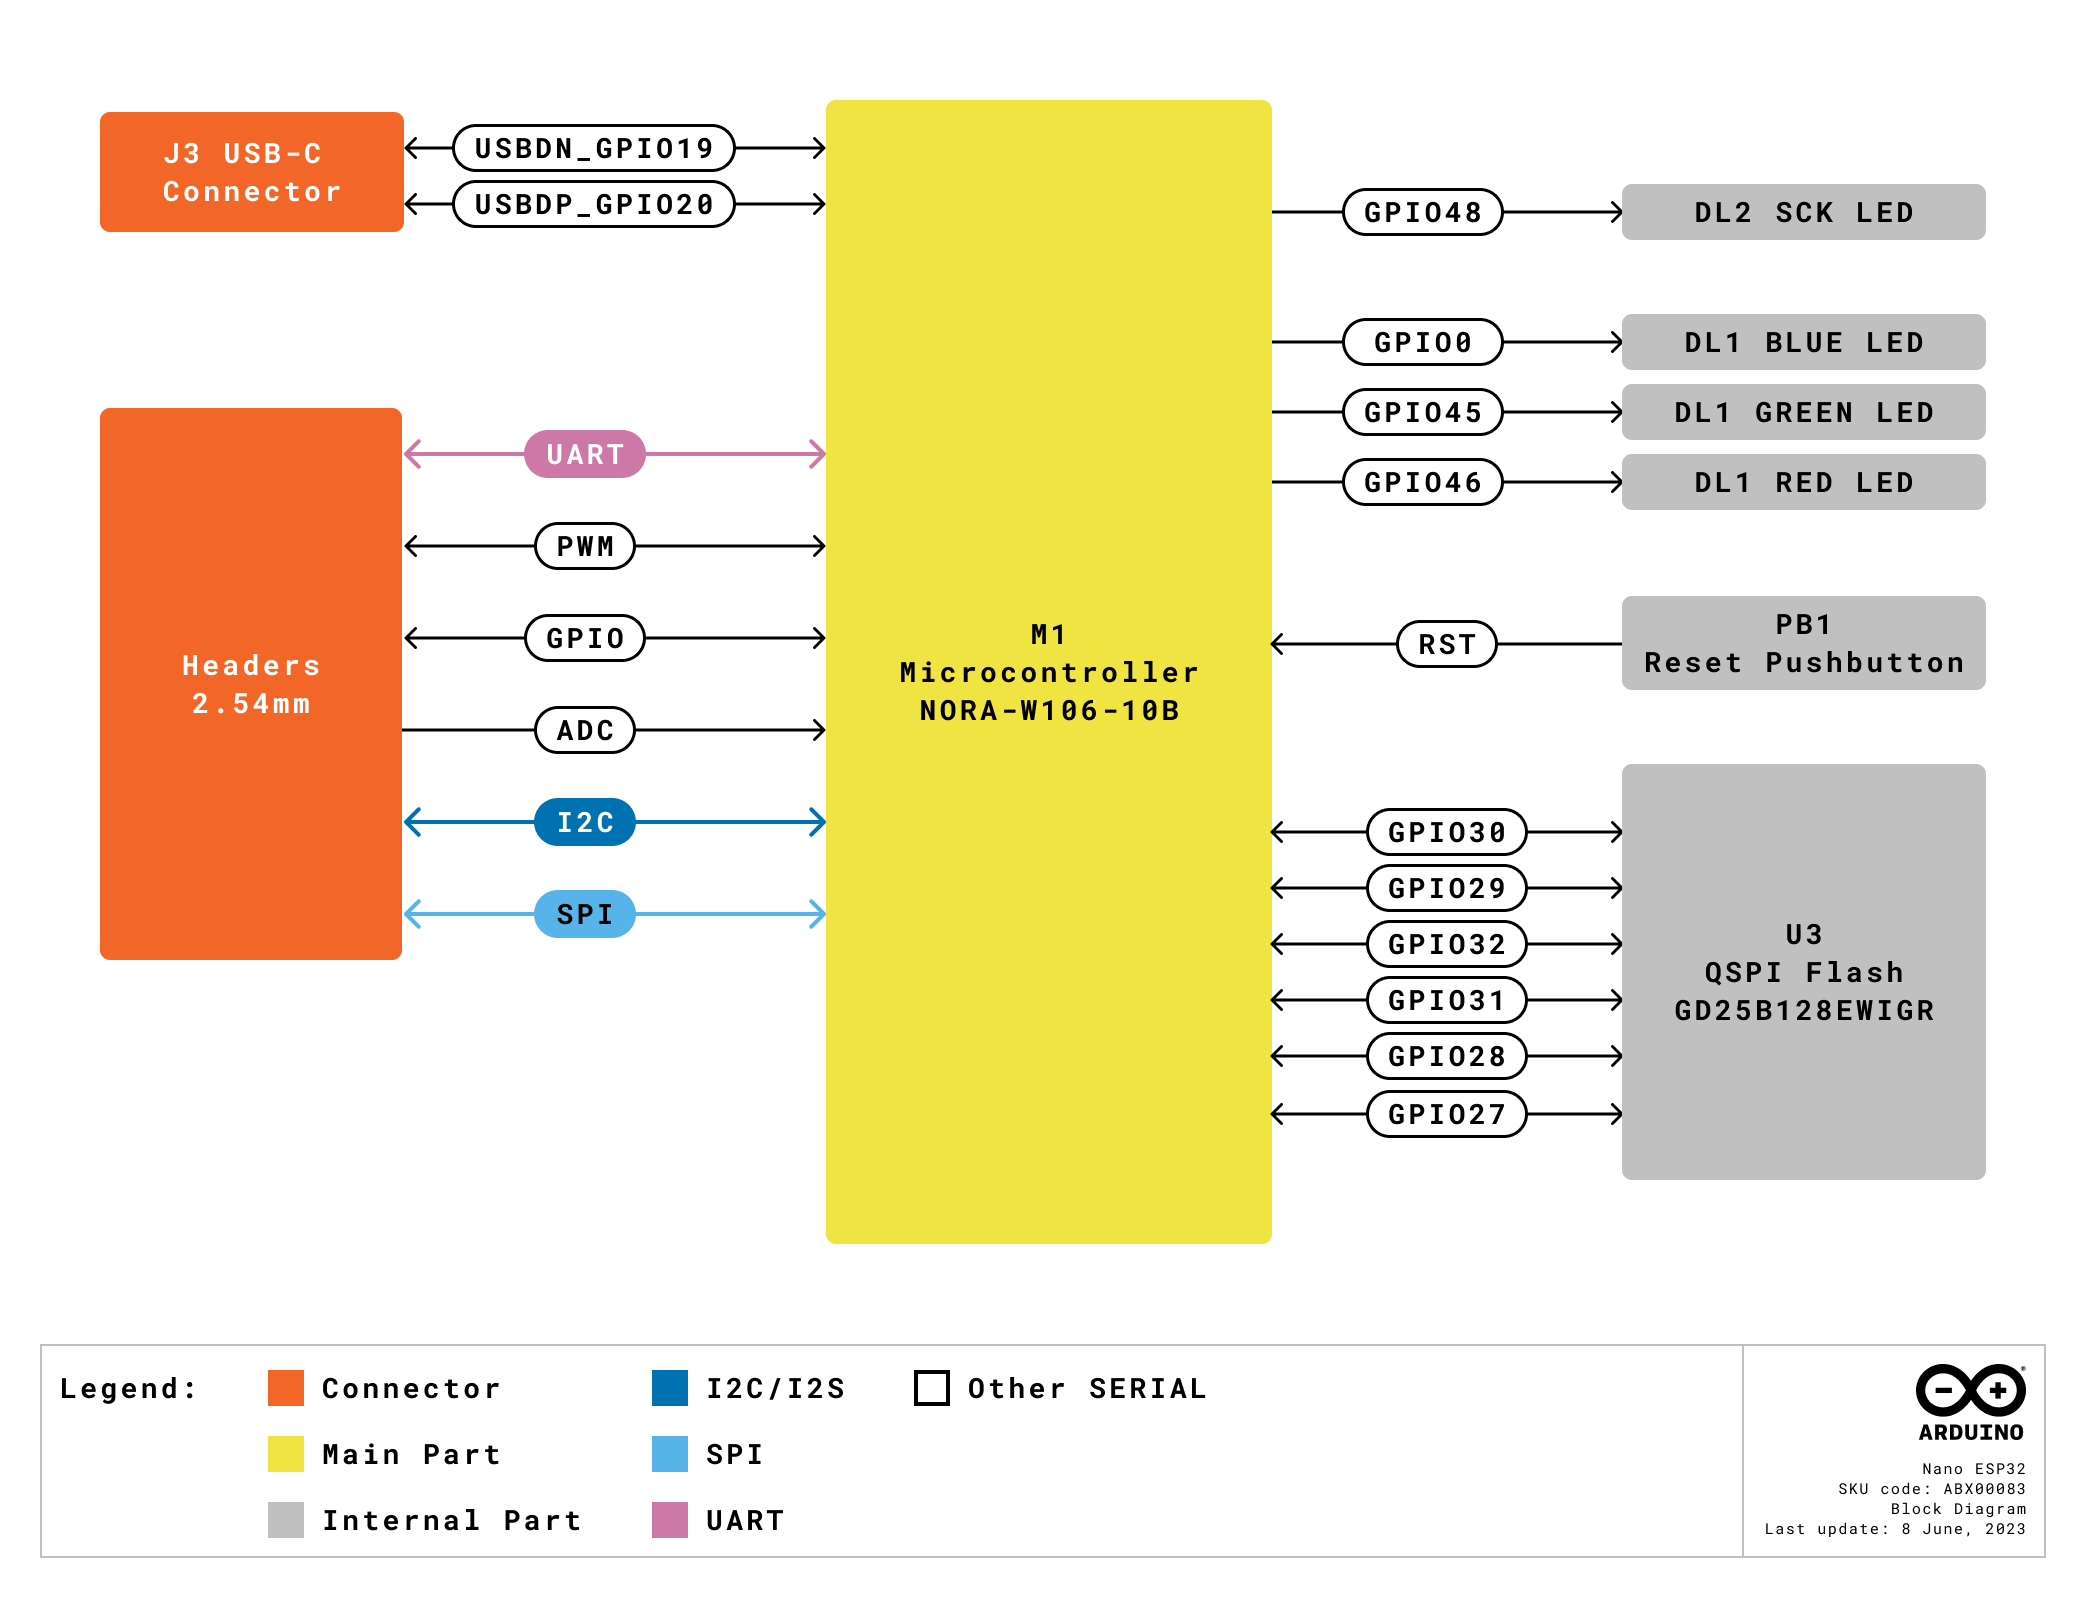
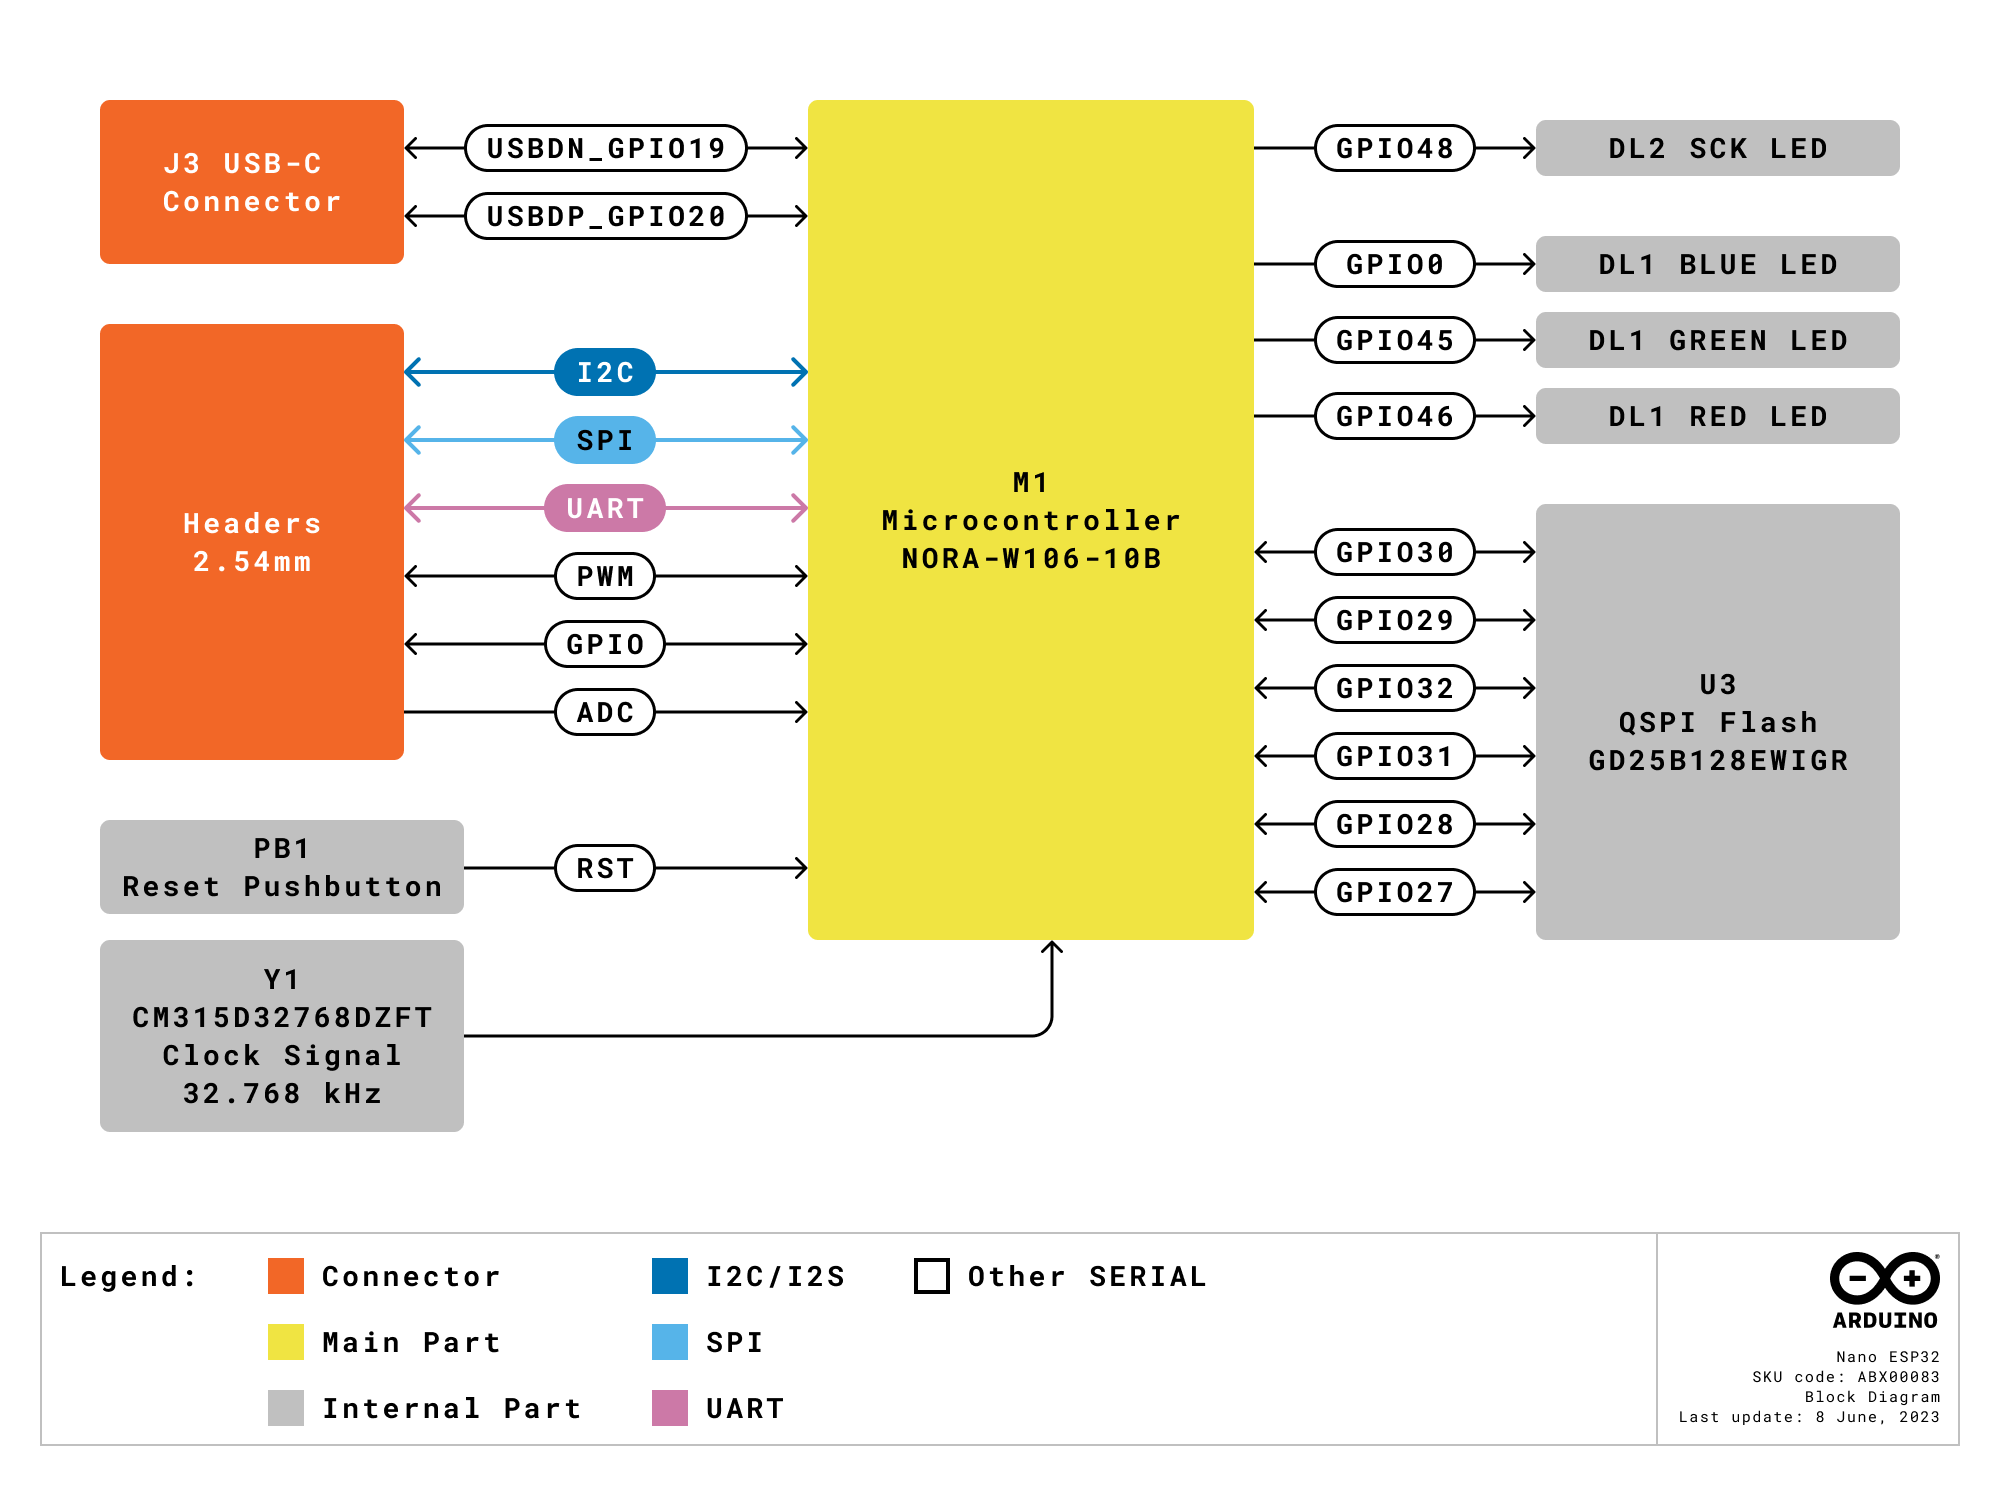
Update Datasheet for Certification

diff --git a/content/hardware/03.nano/boards/nano-esp32/datasheet/datasheet.md b/content/hardware/03.nano/boards/nano-esp32/datasheet/datasheet.md
@@ -131,6 +131,22 @@ The NORA-W106-10B module supports Bluetooth® LE v5.0 with an output power EIRP 
 
 The NORA-W106-10B module includes 8 MB of embedded PSRAM. (Octal SPI)
 
+### Antenna Gain
+
+The built-in antenna on the NORA-W106-10B module uses GFSK modulation technique, with the performance ratings listed below:
+
+Wi-Fi®:
+- Typical conducted output power: **17 dBm.**
+- Typical radiated output power: **20 dBm EIRP.**
+- Conducted sensitivity: **-97 dBm**.
+
+Bluetooth® Low Energy:
+- Typical conducted output power: **7 dBm.**
+- Typical radiated output power: **10 dBm EIRP.**
+- Conducted sensitivity: **-98 dBm**.
+
+This data is retrieved from the uBlox NORA-W10 data sheet (page 7, section 1.5) available [here](https://www.u-blox.com/en/product/nora-w10-series). 
+
 ## System
 
 ### Resets
@@ -460,4 +476,6 @@ Hereby, Arduino S.r.l. declares that this product is in compliance with essentia
 | 09/01/2023 | Update power tree flowchart.                           |
 | 09/11/2023 | Update SPI section, update analog/digital pin section. |
 | 11/06/2023 | Correct company name, correct VBUS/VUSB                |
+| 11/09/2023 | Block Diagram Update, Antenna Specifications           |
+
 
